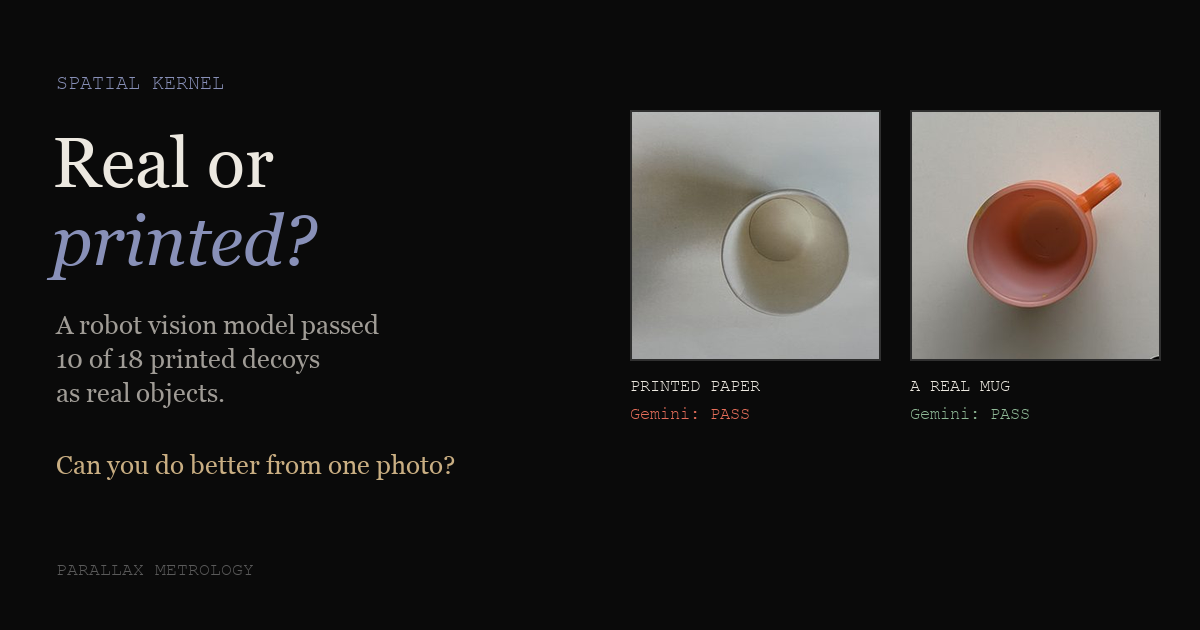
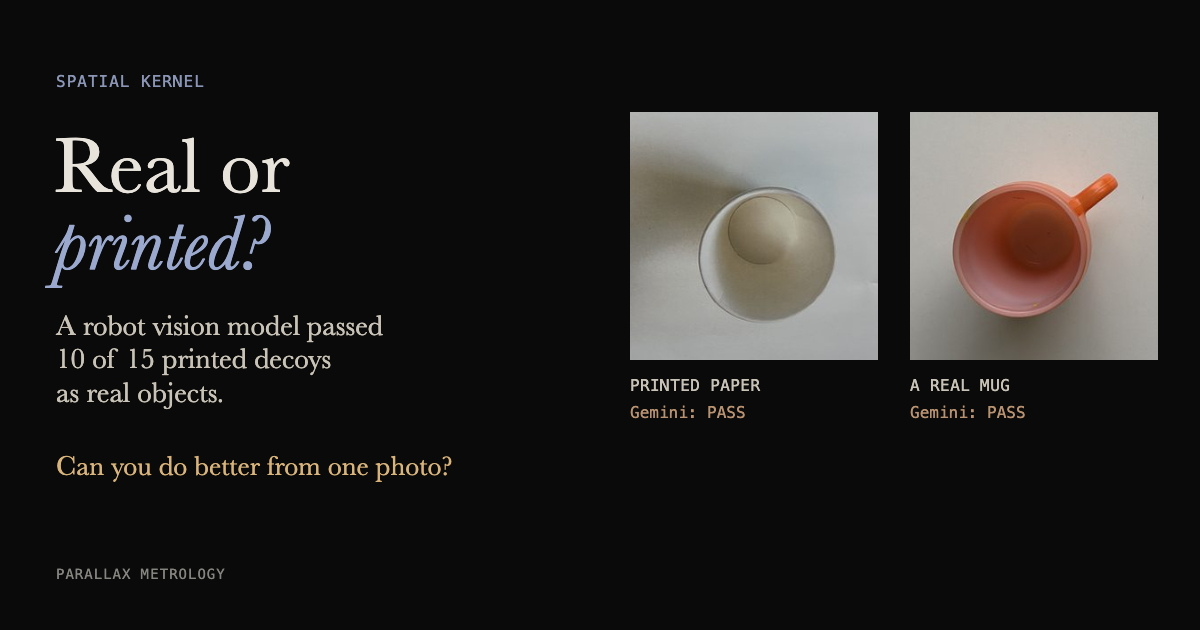
Report 10 of 15 flat decoys separately from empty-table controls

diff --git a/docs/index.html b/docs/index.html
@@ -4,9 +4,9 @@
 <meta charset="utf-8">
 <meta name="viewport" content="width=device-width, initial-scale=1">
 <title>Real or printed?</title>
-<meta name="description" content="A robot was told to put a mug on the table. Is that a real mug, or a sheet of paper? Gemini Robotics-ER passed 10 of 18 printed decoys. Your turn, then see a second photo.">
+<meta name="description" content="A robot was told to put a mug on the table. Is that a real mug, or a sheet of paper? Gemini Robotics-ER passed 10 of 15 printed decoys. Your turn, then see a second photo.">
 <meta property="og:title" content="Real or printed?">
-<meta property="og:description" content="Gemini Robotics-ER passed 10 of 18 printed decoys as real objects. Can you do better from one photo? Then flip to a second view and watch the prints stay flat.">
+<meta property="og:description" content="Gemini Robotics-ER passed 10 of 15 printed decoys as real objects. Can you do better from one photo? Then flip to a second view and watch the prints stay flat.">
 <meta property="og:image" content="https://parallaxmetrology.github.io/spatial-kernel/og-real-or-printed.png">
 <meta name="twitter:card" content="summary_large_image">
 <link rel="preconnect" href="https://fonts.googleapis.com">
@@ -91,7 +91,7 @@
   <section id="intro">
     <p class="eyebrow">Spatial Kernel · a game</p>
     <h1>Real or <em>printed?</em></h1>
-    <p class="lede">A robot was told to put a mug on the table. A vision model looked at the photo and judged whether it worked. Sometimes the "mug" is a sheet of paper. <b>Gemini Robotics-ER passed 10 of 18 printed decoys as real objects.</b> You get the same single photo it got. Then flip to a second photo taken 10 cm to the side.</p>
+    <p class="lede">A robot was told to put a mug on the table. A vision model looked at the photo and judged whether it worked. Sometimes the "mug" is a sheet of paper. <b>Gemini Robotics-ER passed 10 of 15 printed decoys as real objects.</b> You get the same single photo it got. Then flip to a second photo taken 10 cm to the side.</p>
     <div class="how">
       <div><b>1 · One photo</b>Is there a real object on the table? Same question, same picture the model saw.</div>
       <div><b>2 · The model</b>See what Gemini Robotics-ER answered, in its own words.</div>
@@ -135,7 +135,7 @@
 
   <section class="about">
     <p><b>What's going on.</b> One photo doesn't contain height. A good print of a mug and a mug can produce nearly the same pixels, so any judge that looks at one frame has to guess. A second photo from a slightly different spot does contain height: things above the table shift more than the table does. The <a href="https://github.com/parallaxmetrology/spatial-kernel">Spatial Kernel</a> measures that shift with plain computer vision: no training, same answer every time.</p>
-    <p><b>The fine print.</b> These are 27 scenes the model was asked about: one model version, one neutral prompt, one run. On the full set of 113 photo pairs the geometry check is right on 99 of 109 it could track. It struggles with clear glass and with very low objects, and a print taped onto a box fools it (the print really is raised). All of that is in the <a href="https://github.com/parallaxmetrology/spatial-kernel/blob/main/docs/known-issues.md">known issues</a>. Photos by the author, CC BY 4.0.</p>
+    <p><b>The fine print.</b> The recorded run used 15 flat prints, 9 real objects, and 3 empty-table controls. Both methods correctly rejected all 3 empty tables. The study used one model version and one neutral prompt per scene. On the full set of 113 photo pairs the geometry check is right on 99 of 109 it could track. It struggles with clear glass and with very low objects, and a print taped onto a box fools it (the print really is raised). All of that is in the <a href="https://github.com/parallaxmetrology/spatial-kernel/blob/main/docs/known-issues.md">known issues</a>. Photos by the author, CC BY 4.0.</p>
   </section>
 </main>
 <footer><div class="wrap">Parallax Metrology · <a href="https://www.parallaxmetrology.com">parallaxmetrology.com</a> · <a href="https://github.com/parallaxmetrology/spatial-kernel">code</a></div></footer>
@@ -146,7 +146,7 @@ let data = [], deck = [], i = 0, score = {you: 0, gem: 0, geo: 0, gemFooled: 0, 
 
 function shuffle(a) { for (let k = a.length - 1; k > 0; k--) { const j = Math.floor(Math.random() * (k + 1)); [a[k], a[j]] = [a[j], a[k]]; } return a; }
 function buildDeck() {
-  const fooled = shuffle(data.filter(d => !d.real && d.gemini_pass));
+  const fooled = shuffle(data.filter(d => !d.real && !d.id.startsWith('bare') && d.gemini_pass));
   const otherFake = shuffle(data.filter(d => !d.real && !d.gemini_pass && !d.id.startsWith('bare')));
   const real = shuffle(data.filter(d => d.real));
   const empty = shuffle(data.filter(d => d.id.startsWith('bare')));

diff --git a/benchmark/realframe_vlm.py b/benchmark/realframe_vlm.py
@@ -87,6 +87,24 @@ def judge(path, api_key, noun):
         False if ("FAIL" in text.upper() and "PASS" not in text.upper()) else None)
     return v, text.strip()
 
+def print_summary(verdicts):
+    groups = {"flat print": [], "real object": [], "empty table": []}
+    for key, result in verdicts.items():
+        if class_of(key) == "bare table":
+            group = "empty table"
+        elif result["real_object"]:
+            group = "real object"
+        else:
+            group = "flat print"
+        groups[group].append(result["gemini_pass"])
+
+    for group, calls in groups.items():
+        passes = sum(call is True for call in calls)
+        unknown = sum(call is None for call in calls)
+        detail = f" ({unknown} unresolved)" if unknown else ""
+        print(f"Gemini PASS on {group}: {passes} / {len(calls)}{detail}")
+
+
 def main():
     api_key = None
     for line in open(os.path.join(BASE, ".env")):
@@ -115,7 +133,6 @@ def main():
     print(f"{'scene':<24}{'noun':<20}{'real?':<7}{'Gemini':<8}{'fooled':<8}{'parallax':<10}{'raw'}")
     print("-" * 100)
     out = {}
-    n_fool = n_real_pass = n_real = 0
     for key in todo:
         cls = class_of(key); noun, real = CLASS[cls]
         v, text = judge(dot1[key], api_key, noun)
@@ -124,15 +141,11 @@ def main():
         pv = par.get(key, "")
         pv_short = "RAISED" if "RAISED" in pv else ("FLAT" if "FLAT" in pv else pv)
         first = text.splitlines()[0] if text else ""
-        if real:
-            n_real += 1; n_real_pass += int(v is True)
-        n_fool += int(fooled)
         print(f"{key:<24}{noun:<20}{str(real):<7}{gem:<8}{('YES' if fooled else '-'):<8}{pv_short:<10}{first[:30]}")
         out[key] = dict(noun=noun, real_object=real, gemini_pass=v, fooled=fooled,
                         parallax=pv, raw=text)
     print("-" * 100)
-    print(f"Gemini fooled (PASS on a flat print / empty): {n_fool} / {sum(1 for k in todo if not CLASS[class_of(k)][1])}")
-    print(f"Gemini correct on real objects: {n_real_pass} / {n_real}")
+    print_summary(out)
     os.makedirs(os.path.dirname(PARALLAX_JSON), exist_ok=True)
     json.dump(out, open(os.path.join(os.path.dirname(PARALLAX_JSON), "realframe_vlm.json"), "w"), indent=2)
     print("raw verdicts saved to", os.path.relpath(os.path.join(os.path.dirname(PARALLAX_JSON), "realframe_vlm.json")))

diff --git a/tests/test_realframe_summary.py b/tests/test_realframe_summary.py
@@ -1,0 +1,22 @@
+import json
+from pathlib import Path
+
+from benchmark.realframe_vlm import print_summary
+
+
+def test_recorded_counts_keep_empty_tables_separate(capsys):
+    record = Path(__file__).resolve().parents[1] / "results/recorded/cups2/realframe_vlm.json"
+    trials = json.loads(record.read_text())
+    print_summary(trials)
+    assert capsys.readouterr().out.splitlines() == [
+        "Gemini PASS on flat print: 10 / 15",
+        "Gemini PASS on real object: 9 / 9",
+        "Gemini PASS on empty table: 0 / 3",
+    ]
+
+    # Even if the model passes an empty control, it cannot add a print false pass.
+    trials["bare table 01"]["gemini_pass"] = True
+    print_summary(trials)
+    output = capsys.readouterr().out
+    assert "Gemini PASS on flat print: 10 / 15" in output
+    assert "Gemini PASS on empty table: 1 / 3" in output

diff --git a/README.md b/README.md
@@ -2,12 +2,12 @@
 
 **Is it really there? A deterministic check of robot task outcomes. No learned judge.**
 
-Ask a vision-language model whether a robot put the mug on the table and it looks at one picture. A picture of a mug is not a mug. On ordinary phone photos of a tabletop, **Gemini Robotics-ER passed 10 of 18 flat printed decoys as real objects present**. A two-view check with standard computer vision caught all 10: take a second photo ~10 cm to the side, and a real object shifts more than the table it stands on, while a print lies in the table plane and shifts with it.
+Ask a vision-language model whether a robot put the mug on the table and it looks at one picture. A picture of a mug is not a mug. On ordinary phone photos of a tabletop, **Gemini Robotics-ER passed 10 of 15 flat printed decoys as real objects present**. A two-view check with standard computer vision identified all 15 prints as flat: take a second photo ~10 cm to the side, and a real object shifts more than the table it stands on, while a print lies in the table plane and shifts with it.
 
 | on the same real photos (27 scenes, 9 kinds) | flat decoys passed as real | real objects passed | empty table passed |
 |---|---|---|---|
-| Gemini Robotics-ER 1.6, one view, neutral prompt | **10 / 18** | 9 / 9 | 0 / 3 |
-| Two-view parallax check (this repo) | **0 / 18** | 9 / 9 | 0 / 3 |
+| Gemini Robotics-ER 1.6, one view, neutral prompt | **10 / 15** | 9 / 9 | 0 / 3 |
+| Two-view parallax check (this repo) | **0 / 15** | 9 / 9 | 0 / 3 |
 
 Across the full photo set (113 scenes, 19 object types plus a bare table) the check is right on 99 of 109 cleanly detected scenes and loses track of the object in 4. Where it fails is in [docs/known-issues.md](docs/known-issues.md), and it's worth reading: the model and the geometry fail in *different* places, which is the point.
 

diff --git a/docs/known-issues.md b/docs/known-issues.md
@@ -28,7 +28,7 @@ The 15 px threshold and 90 px mis-track cap were set on this setup: iPhone 14 Pl
 
 ## 7. The Gemini comparison is small
 
-27 scenes (9 kinds × 3), one model (`gemini-robotics-er-1.6-preview`), one neutral prompt that names the object, one view per scene, one run. Model answers can change between runs and versions. The recorded answers are verbatim in [`realframe_vlm.json`](../results/recorded/cups2/realframe_vlm.json). It shows that a strong embodied model *can* be fooled by a print. It doesn't estimate how often.
+27 scenes (15 flat decoys, 9 real objects, and 3 empty-table controls), one model (`gemini-robotics-er-1.6-preview`), one neutral prompt that names the object, one view per scene, one run. Model answers can change between runs and versions. The recorded answers are verbatim in [`realframe_vlm.json`](../results/recorded/cups2/realframe_vlm.json). It shows that a strong embodied model *can* be fooled by a print. It doesn't estimate how often.
 
 ## 8. Older recorded runs
 

diff --git a/docs/evidence.md b/docs/evidence.md
@@ -27,7 +27,7 @@ python benchmark/realframe_parallax.py          # writes results/cups2/, compare
 | real mug, paper cup, box on its side | yes | 9 / 9 | 9 / 9 |
 | bare table | — | 0 / 3 | 3 / 3 |
 
-Gemini passed 10 of 18 decoys and the check caught all 10. Gemini wasn't careless: on the cut-outs it said things like "appears to be a flat sticker or image of a mug". Where the print is good, one view doesn't hold the answer.
+Gemini passed 10 of 15 flat decoys as real. The check marked all 15 as flat and all 9 real objects as raised. Both methods correctly rejected the 3 empty-table controls. Gemini wasn't careless: on the cut-outs it said things like "appears to be a flat sticker or image of a mug". Where the print is good, one view doesn't hold the answer.
 
 ## Placement precision (real objects, cm)
 
